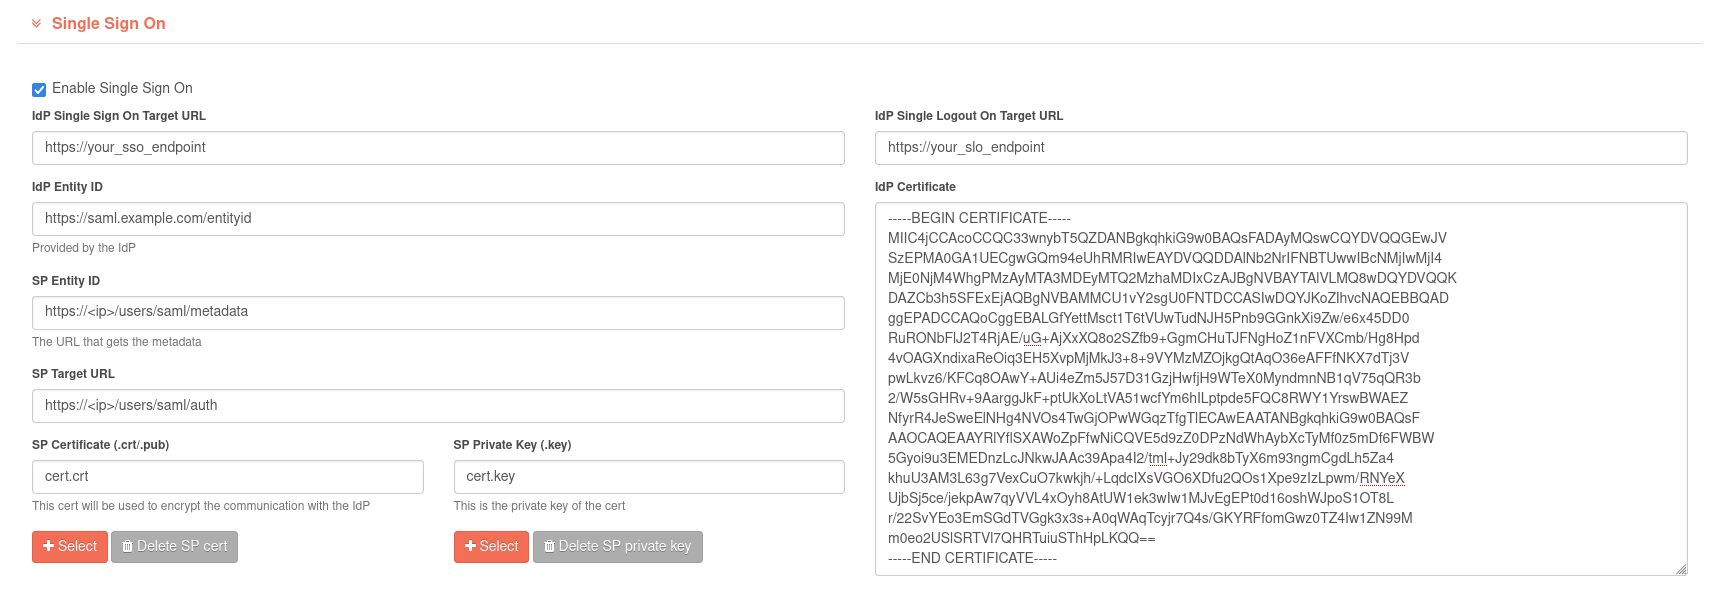
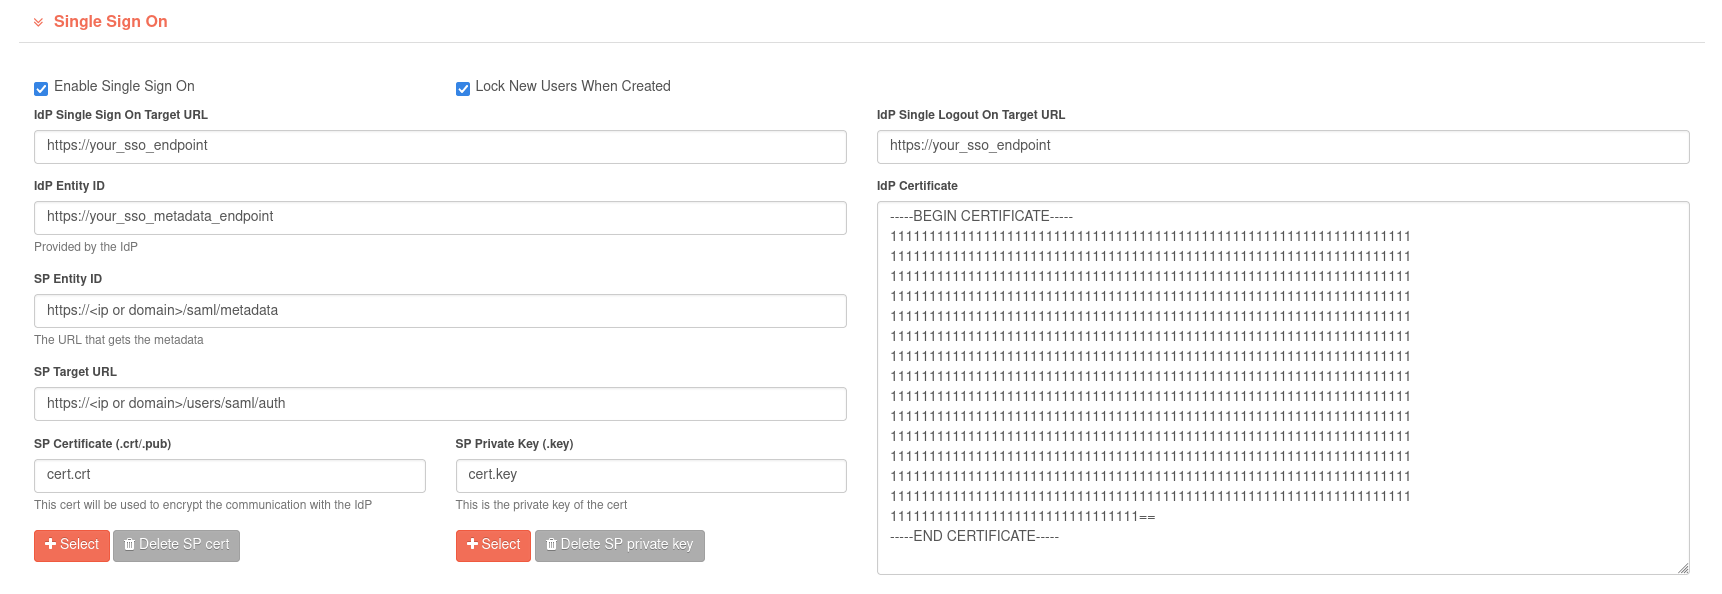
Updated SSO - Login interface and lock new users

diff --git a/docs/guides/integrations/sso.es.md b/docs/guides/integrations/sso.es.md
@@ -40,6 +40,8 @@ Después, el sistema de inicio de sesión SSO estará habilitado. Puedes comprob
 
 ![SSO Config Parameters](images/sso_config.png)  
 
+- **Bloquear Nuevos Ususarios Recién Creados**: Este ajuste activa la opción de bloquear la cuenta al crearse.  
+
 === "Parámetros del IdP"  
     - **URL de destino del IdP SSO**: Esta es la URL que redirige al IdP cuando deseas iniciar sesión.  
     - **URL de destino del IdP SLO**: Esta es la URL que redirige al IdP cuando deseas cerrar sesión. Hay algunos IdPs que no tienen esta configuración, entonces escribe la ruta de cierre de sesión de redBorder: `<host>/users/logout`.  
@@ -55,6 +57,3 @@ Después, el sistema de inicio de sesión SSO estará habilitado. Puedes comprob
 ## Registro e inicio de sesión  
 
 Después de configurar todos los ajustes, se puede iniciar sesión mediante SSO. Para usarlo, vaya a la ruta de inicio de sesión y se verá un botón que se refiere a SSO. Tras hacerse click en él, la página se redirigirá al servicio SSO configurado del IdP.  
-
-!!! Warning  
-    Si es la primera vez que se accede a redBorder, se necesitará iniciar sesión dos veces: la primera para el registro del usuario y la segunda para el inicio de sesión.  

diff --git a/docs/guides/integrations/sso.md b/docs/guides/integrations/sso.md
@@ -38,7 +38,9 @@ After, the SSO login system is enabled. You can check it by going to the login p
 
 ### Configurable parameters
 
-![SSO Config Parameters](images/sso_config.png)
+![SSO Config Parameters](images/sso_config.png)  
+
+- **Lock New Users When Created**: This setting enable the option to lock the account when it is created.
 
 === "IdP Parameters"  
     - **IdP Single Sign On Target URL**: This is the URL that redirects to the IdP when you want to login.  
@@ -55,6 +57,3 @@ After, the SSO login system is enabled. You can check it by going to the login p
 ## Login and register  
 
 After setting all the settings, SSO can be used. To use it, go to the login path and you will see a button referring to SSO. Click on it and will redirect you to the SSO configured service of the IdP.  
-
-!!! Warning  
-    If it is the first time that an account logs into redBorder, you will need to enter the credentials twice: the first time for registering and then to logging in.  
